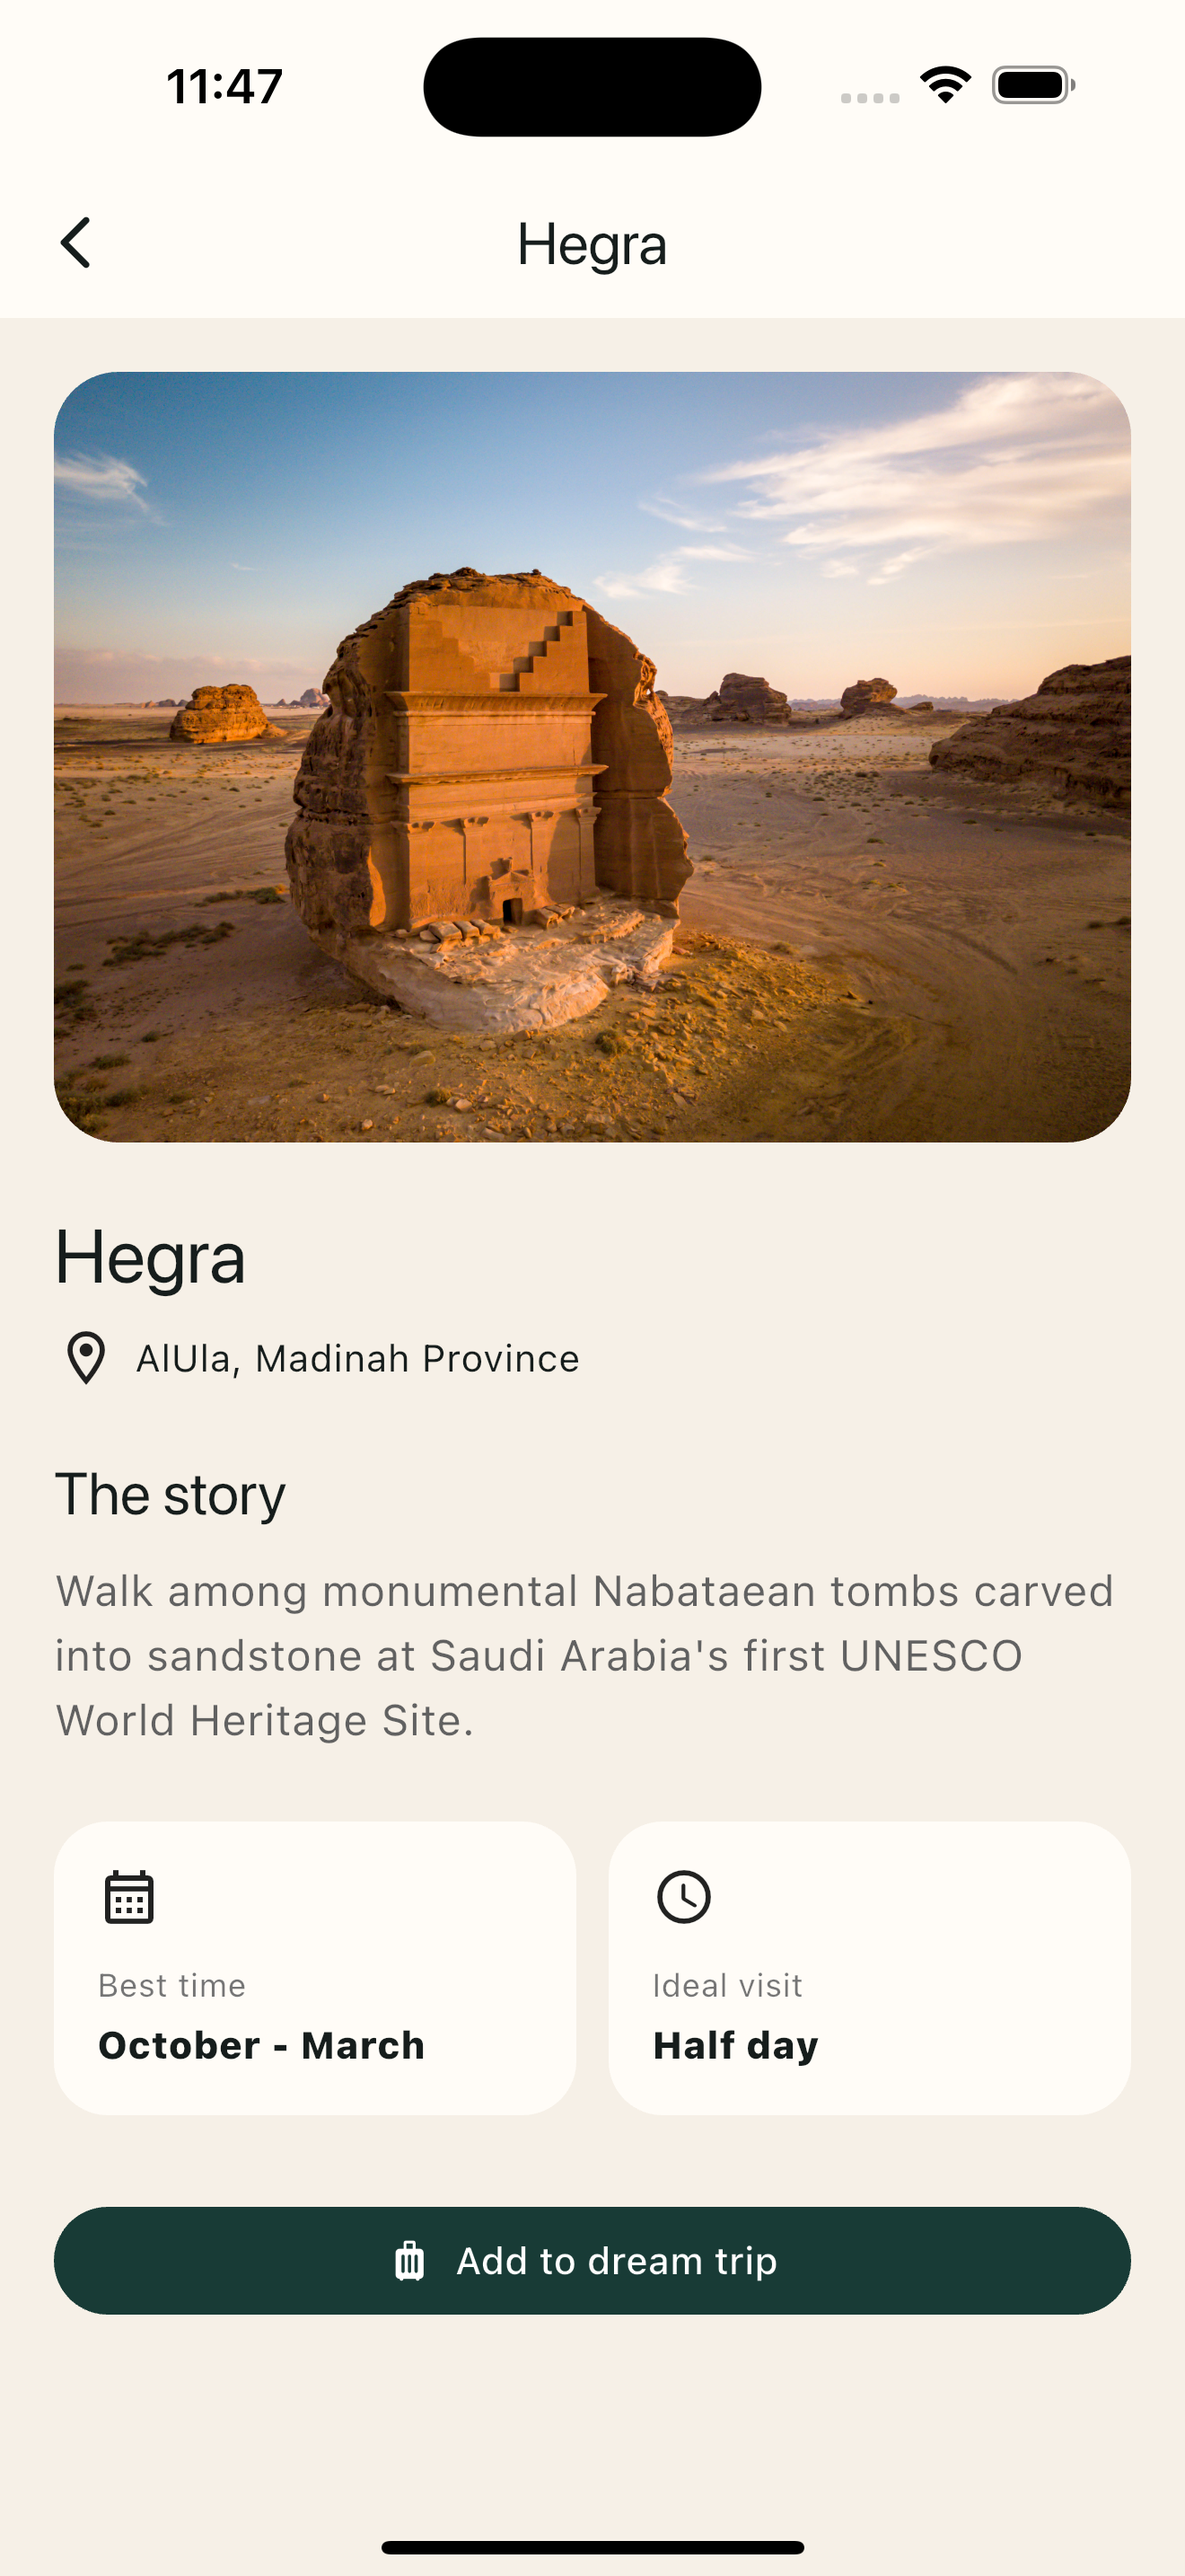
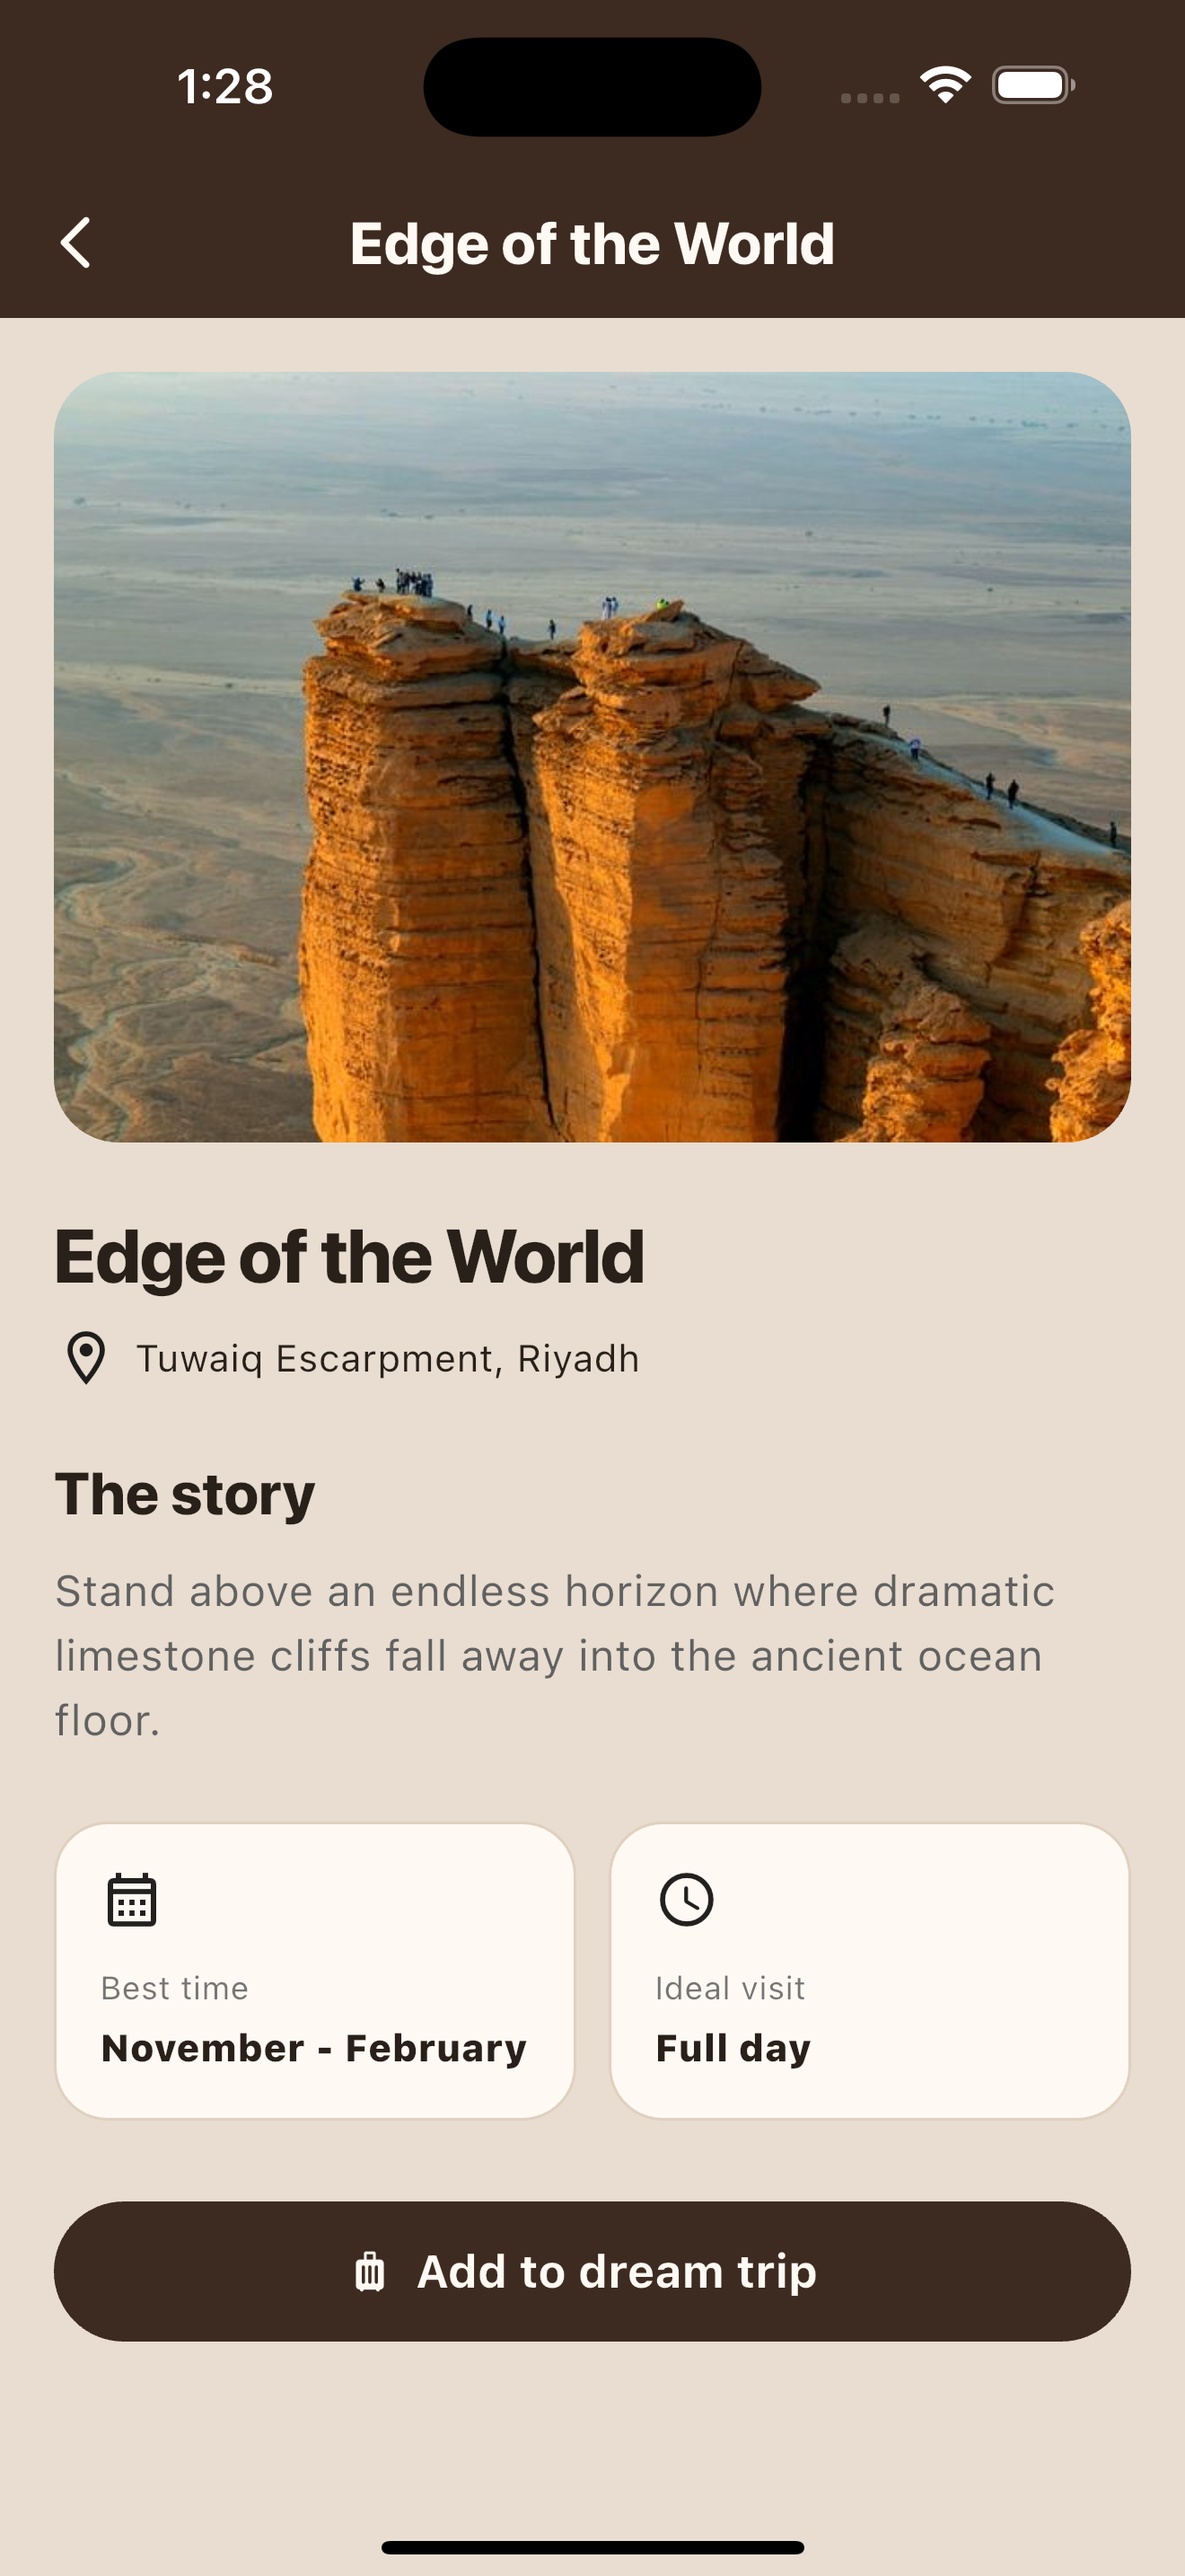
Apply cedar and sage visual theme

diff --git a/lib/screens/home.dart b/lib/screens/home.dart
@@ -116,7 +116,7 @@ class _HomeScreenState extends State<HomeScreen> {
                     hintText: 'Search a place or region',
                     prefixIcon: const Icon(
                       Icons.search_rounded,
-                      color: Color(0xFF48605B),
+                      color: Color(0xFF52634D),
                     ),
                     suffixIcon: query.isEmpty
                         ? null
@@ -129,19 +129,19 @@ class _HomeScreenState extends State<HomeScreen> {
                             icon: const Icon(Icons.close_rounded),
                           ),
                     filled: true,
-                    fillColor: const Color(0xFFFFFCF7),
+                    fillColor: const Color(0xFFFFF9F3),
                     border: OutlineInputBorder(
                       borderRadius: BorderRadius.circular(20),
-                      borderSide: const BorderSide(color: Color(0xFFE3D8CA)),
+                      borderSide: const BorderSide(color: Color(0xFFD8C8B6)),
                     ),
                     enabledBorder: OutlineInputBorder(
                       borderRadius: BorderRadius.circular(20),
-                      borderSide: const BorderSide(color: Color(0xFFE3D8CA)),
+                      borderSide: const BorderSide(color: Color(0xFFD8C8B6)),
                     ),
                     focusedBorder: OutlineInputBorder(
                       borderRadius: BorderRadius.circular(20),
                       borderSide: const BorderSide(
-                        color: Color(0xFFC97832),
+                        color: Color(0xFFB9653C),
                         width: 2,
                       ),
                     ),
@@ -159,7 +159,7 @@ class _HomeScreenState extends State<HomeScreen> {
                         width: double.infinity,
                         padding: const EdgeInsets.all(32),
                         decoration: BoxDecoration(
-                          color: const Color(0xFFFFFCF7),
+                          color: const Color(0xFFFFF9F3),
                           borderRadius: BorderRadius.circular(24),
                         ),
                         child: Column(
@@ -170,7 +170,7 @@ class _HomeScreenState extends State<HomeScreen> {
                                   ? Icons.bookmark_add_outlined
                                   : Icons.search_off_rounded,
                               size: 48,
-                              color: Color(0xFF183B36),
+                              color: Color(0xFF3D2A20),
                             ),
                             SizedBox(height: 16),
                             Text(
@@ -205,13 +205,13 @@ class _HomeScreenState extends State<HomeScreen> {
                         margin: const EdgeInsets.only(bottom: 20),
                         clipBehavior: Clip.antiAlias,
                         decoration: BoxDecoration(
-                          color: const Color(0xFFFFFCF7),
+                          color: const Color(0xFFFFF9F3),
                           borderRadius: BorderRadius.circular(24),
                           boxShadow: const [
                             BoxShadow(
-                              color: Color(0x14000000),
-                              blurRadius: 18,
-                              offset: Offset(0, 8),
+                              color: Color(0x183D2A20),
+                              blurRadius: 22,
+                              offset: Offset(0, 10),
                             ),
                           ],
                         ),
@@ -237,7 +237,7 @@ class _HomeScreenState extends State<HomeScreen> {
                                           vertical: 6,
                                         ),
                                         decoration: BoxDecoration(
-                                          color: const Color(0xFFE4ECE7),
+                                          color: const Color(0xFFDFE8DA),
                                           borderRadius: BorderRadius.circular(
                                             20,
                                           ),
@@ -276,7 +276,7 @@ class _HomeScreenState extends State<HomeScreen> {
 
                                       const Icon(
                                         Icons.star_rounded,
-                                        color: Color(0xFFC97832),
+                                        color: Color(0xFFB9653C),
                                         size: 20,
                                       ),
                                       const SizedBox(width: 4),

diff --git a/lib/screens/place_details.dart b/lib/screens/place_details.dart
@@ -1,6 +1,5 @@
 import 'package:flutter/material.dart';
 
-// This screen receives one destination map from the home screen.
 class PlaceDetailsScreen extends StatelessWidget {
   const PlaceDetailsScreen({
     super.key,
@@ -8,21 +7,22 @@ class PlaceDetailsScreen extends StatelessWidget {
     required this.onSave,
   });
 
-  // Stores the selected destination data.
-  // Example: Hegra map, including its name, image, and description.
   final Map<String, dynamic> place;
   final VoidCallback onSave;
 
   @override
   Widget build(BuildContext context) {
     return Scaffold(
-      appBar: AppBar(title: Text(place['name'])),
+      appBar: AppBar(
+        title: Text(place['name']),
+        backgroundColor: const Color(0xFF3D2A20),
+        foregroundColor: const Color(0xFFFFF9F3),
+      ),
 
       body: ListView(
         padding: const EdgeInsets.all(20),
 
         children: [
-          // Shows the destination image.
           ClipRRect(
             borderRadius: BorderRadius.circular(24),
 
@@ -39,7 +39,6 @@ class PlaceDetailsScreen extends StatelessWidget {
 
           const SizedBox(height: 24),
 
-          // Shows the destination name.
           Text(
             place['name'],
             style: Theme.of(context).textTheme.headlineMedium,
@@ -47,7 +46,6 @@ class PlaceDetailsScreen extends StatelessWidget {
 
           const SizedBox(height: 8),
 
-          // Shows the destination location with an icon.
           Row(
             children: [
               const Icon(Icons.location_on_outlined),
@@ -65,7 +63,6 @@ class PlaceDetailsScreen extends StatelessWidget {
 
           const SizedBox(height: 10),
 
-          // Shows the description from the map.
           Text(
             place['description'],
             style: TextStyle(
@@ -83,8 +80,9 @@ class PlaceDetailsScreen extends StatelessWidget {
                 child: Container(
                   padding: const EdgeInsets.all(16),
                   decoration: BoxDecoration(
-                    color: const Color(0xFFFFFCF7),
+                    color: const Color(0xFFFFF9F3),
                     borderRadius: BorderRadius.circular(20),
+                    border: Border.all(color: const Color(0xFFE0D0BF)),
                   ),
                   child: Column(
                     crossAxisAlignment: CrossAxisAlignment.start,
@@ -118,8 +116,9 @@ class PlaceDetailsScreen extends StatelessWidget {
                 child: Container(
                   padding: const EdgeInsets.all(16),
                   decoration: BoxDecoration(
-                    color: const Color(0xFFFFFCF7),
+                    color: const Color(0xFFFFF9F3),
                     borderRadius: BorderRadius.circular(20),
+                    border: Border.all(color: const Color(0xFFE0D0BF)),
                   ),
                   child: Column(
                     crossAxisAlignment: CrossAxisAlignment.start,
@@ -151,7 +150,6 @@ class PlaceDetailsScreen extends StatelessWidget {
 
           const SizedBox(height: 30),
 
-          // A creative button for the second screen.
           SizedBox(
             width: double.infinity,
             child: FilledButton.icon(

diff --git a/lib/main.dart b/lib/main.dart
@@ -16,12 +16,49 @@ class RihlaApp extends StatelessWidget {
       title: 'Rihla',
       theme: ThemeData(
         useMaterial3: true,
-        scaffoldBackgroundColor: const Color(0xFFF6F0E7),
+        scaffoldBackgroundColor: const Color(0xFFE8DDD0),
         colorScheme: ColorScheme.fromSeed(
-          seedColor: const Color(0xFF183B36),
-          primary: const Color(0xFF183B36),
-          secondary: const Color(0xFFC97832),
-          surface: const Color(0xFFFFFCF7),
+          seedColor: const Color(0xFF3D2A20),
+          primary: const Color(0xFF3D2A20),
+          secondary: const Color(0xFF6E8062),
+          surface: const Color(0xFFFFF9F3),
+          onSurface: const Color(0xFF29201A),
+        ),
+        appBarTheme: const AppBarTheme(
+          backgroundColor: Color(0xFFE8DDD0),
+          foregroundColor: Color(0xFF29201A),
+          elevation: 0,
+          surfaceTintColor: Colors.transparent,
+        ),
+        navigationBarTheme: const NavigationBarThemeData(
+          backgroundColor: Color(0xFFDCE5D8),
+          indicatorColor: Color(0xFFB8CBB2),
+          labelTextStyle: WidgetStatePropertyAll(
+            TextStyle(fontWeight: FontWeight.w700),
+          ),
+        ),
+        filledButtonTheme: FilledButtonThemeData(
+          style: FilledButton.styleFrom(
+            backgroundColor: const Color(0xFF3D2A20),
+            foregroundColor: const Color(0xFFFFF9F3),
+            minimumSize: const Size.fromHeight(52),
+            shape: const StadiumBorder(),
+            textStyle: const TextStyle(
+              fontSize: 17,
+              fontWeight: FontWeight.w700,
+            ),
+          ),
+        ),
+        textTheme: const TextTheme(
+          headlineMedium: TextStyle(
+            color: Color(0xFF29201A),
+            fontWeight: FontWeight.w800,
+            letterSpacing: -0.6,
+          ),
+          titleLarge: TextStyle(
+            color: Color(0xFF29201A),
+            fontWeight: FontWeight.w800,
+          ),
         ),
       ),
       home: const HomeScreen(),

diff --git a/README.md b/README.md
@@ -31,8 +31,9 @@ places for a future trip.
 ## 📸 Screenshots
 
 <p align="center">
-  <img src="https://raw.githubusercontent.com/turki125/Rihla/7a5c0b5/screenshots/home.png" alt="RIHLA home screen" width="260">
-  <img src="screenshots/details.png" alt="Hegra details screen" width="260">
+  <img src="screenshots/home.png" alt="RIHLA Discover screen" width="260">
+  <img src="screenshots/details.png" alt="RIHLA place details screen" width="260">
+  <img src="screenshots/saved.png" alt="RIHLA saved journeys screen" width="260">
   <img src="https://github.com/user-attachments/assets/fa539922-b3f8-4651-a6f8-83ad03f1898a" alt="RIHLA saved places screen" width="260">
 </p>
 
